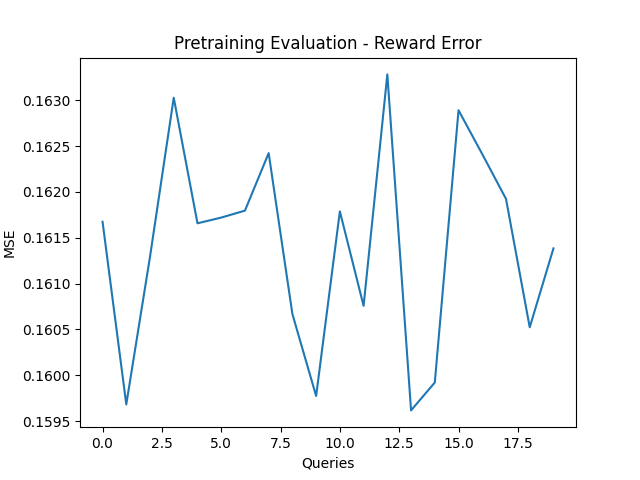
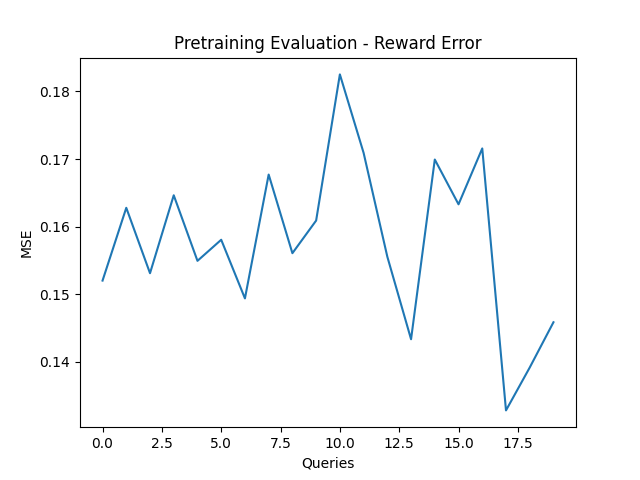
added feature normalization for inputs

diff --git a/models/encoder.py b/models/encoder.py
@@ -15,11 +15,11 @@ class Encoder(nn.Module):
         # TODO: add option to make multiple layers
         self.hidden_dim = args.gru_hidden_size
 
-        self.fc_input_query = nn.Linear(args.query_size * args.num_features, args.fc_dim)
-        self.fc_input = nn.Linear(args.fc_dim + 1, 2 * args.fc_dim)
+        self.fc_input_query = nn.Linear(args.num_features, args.fc_dim)
+        self.fc_input = nn.Linear(args.query_size * args.fc_dim + 1, 32)
 
         # RNN functionality
-        self.gru = nn.GRU(input_size=2 * args.fc_dim,
+        self.gru = nn.GRU(input_size=32,
                           hidden_size=self.hidden_dim,
                           num_layers=args.gru_hidden_layers)
 
@@ -50,8 +50,13 @@ class Encoder(nn.Module):
         return belief
 
     def forward(self, query, answer, hidden):
-        input_query = self.fc_input_query(query)
-        input_query = F.leaky_relu(input_query)
+        query = query.reshape((*query.shape[:-1], self.args.query_size, self.args.num_features))
+        query_embeddings = []
+        for i in range(self.args.query_size):
+            query_embeddings.append(self.fc_input_query(query[:, :, i, :]))
+        query_embeddings = torch.stack(query_embeddings, dim=-2)
+        query_embeddings = torch.flatten(query_embeddings, start_dim=-2)
+        input_query = F.leaky_relu(query_embeddings)
         
         output = torch.cat((input_query, answer), -1)
         output = self.fc_input(output)

diff --git a/storage/vae_storage.py b/storage/vae_storage.py
@@ -25,9 +25,10 @@ class VAEStorage:
         self.queries = torch.zeros((self.buffer_size, args.query_size * args.num_features))
 
     def normalize_dataset(self):
-        mean = torch.mean(self.queries, dim=0)
-        std = torch.std(self.queries, dim=0)
-        self.queries = (self.queries - mean)/std
+        mean = torch.mean(self.queries[:self.buffer_len], dim=0)
+        std = torch.std(self.queries[:self.buffer_len], dim=0)
+        for i in range(self.buffer_len):
+            self.queries[i] = (self.queries[i] - mean) / std
 
     def get_random_true_rewards(self, batchsize=5):
         true_rewards = torch.normal(0, 1, (batchsize, self.args.num_features))

diff --git a/learner.py b/learner.py
@@ -272,10 +272,8 @@ class Learner:
                 # get beliefs from queries and answers
                 beliefs, hidden = self.encoder(curr_queries, curr_answers, hidden)
 
-                # compute predicted response at timestep for each query
-                inputs = response_dist(self.args, curr_queries, beliefs)
-
                 # get inputs and targets for cross entropy loss
+                inputs = response_dist(self.args, curr_queries, beliefs)
                 inputs = inputs.view(-1, self.args.query_size)
                 targets = curr_answers.view(-1)
 
